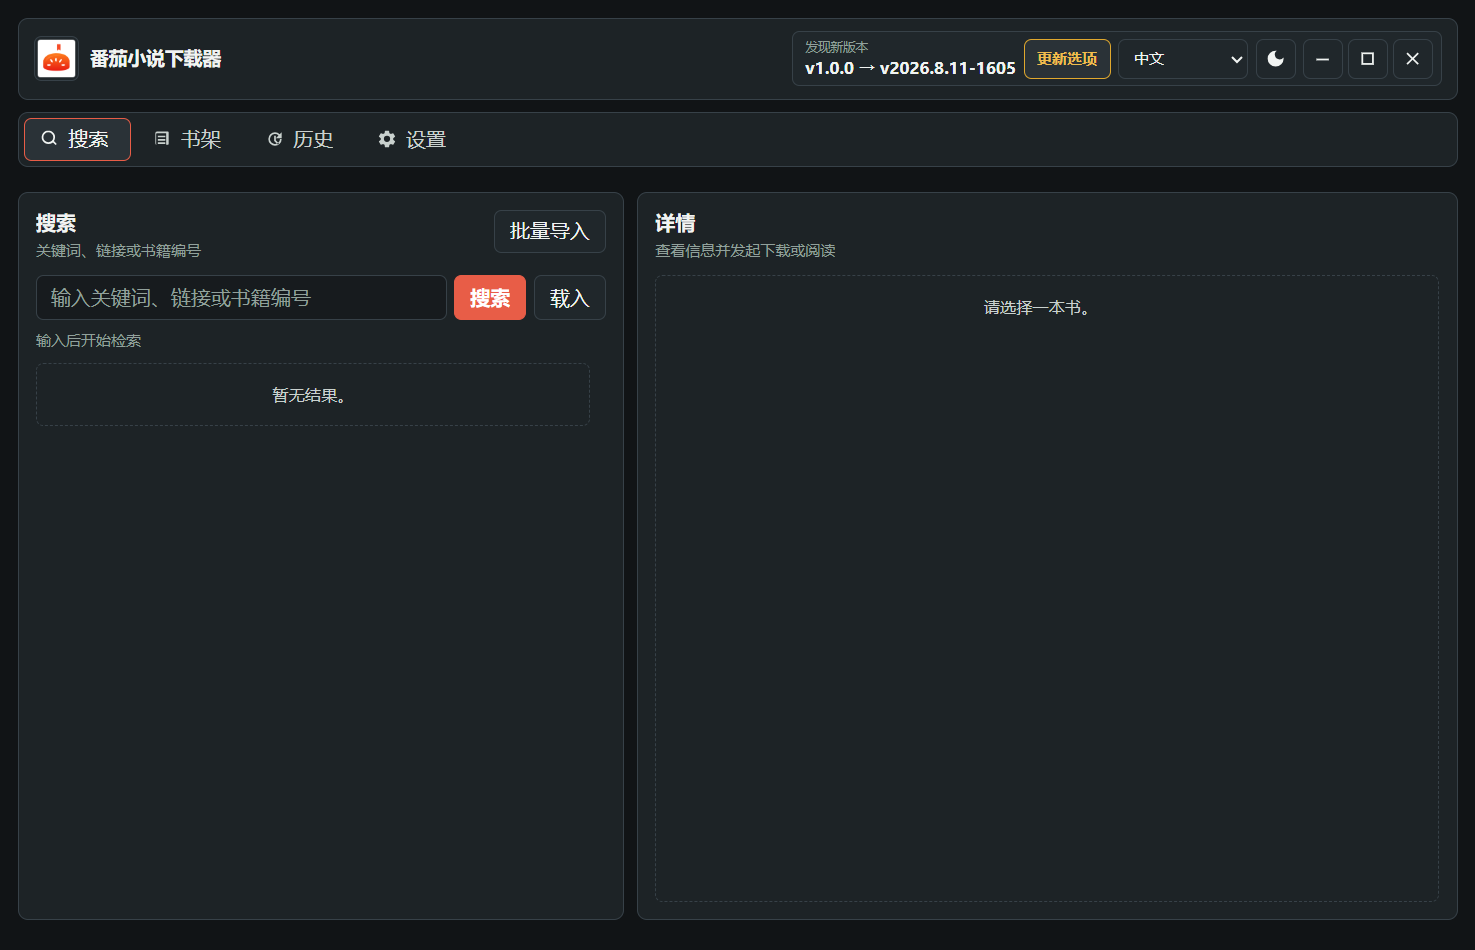
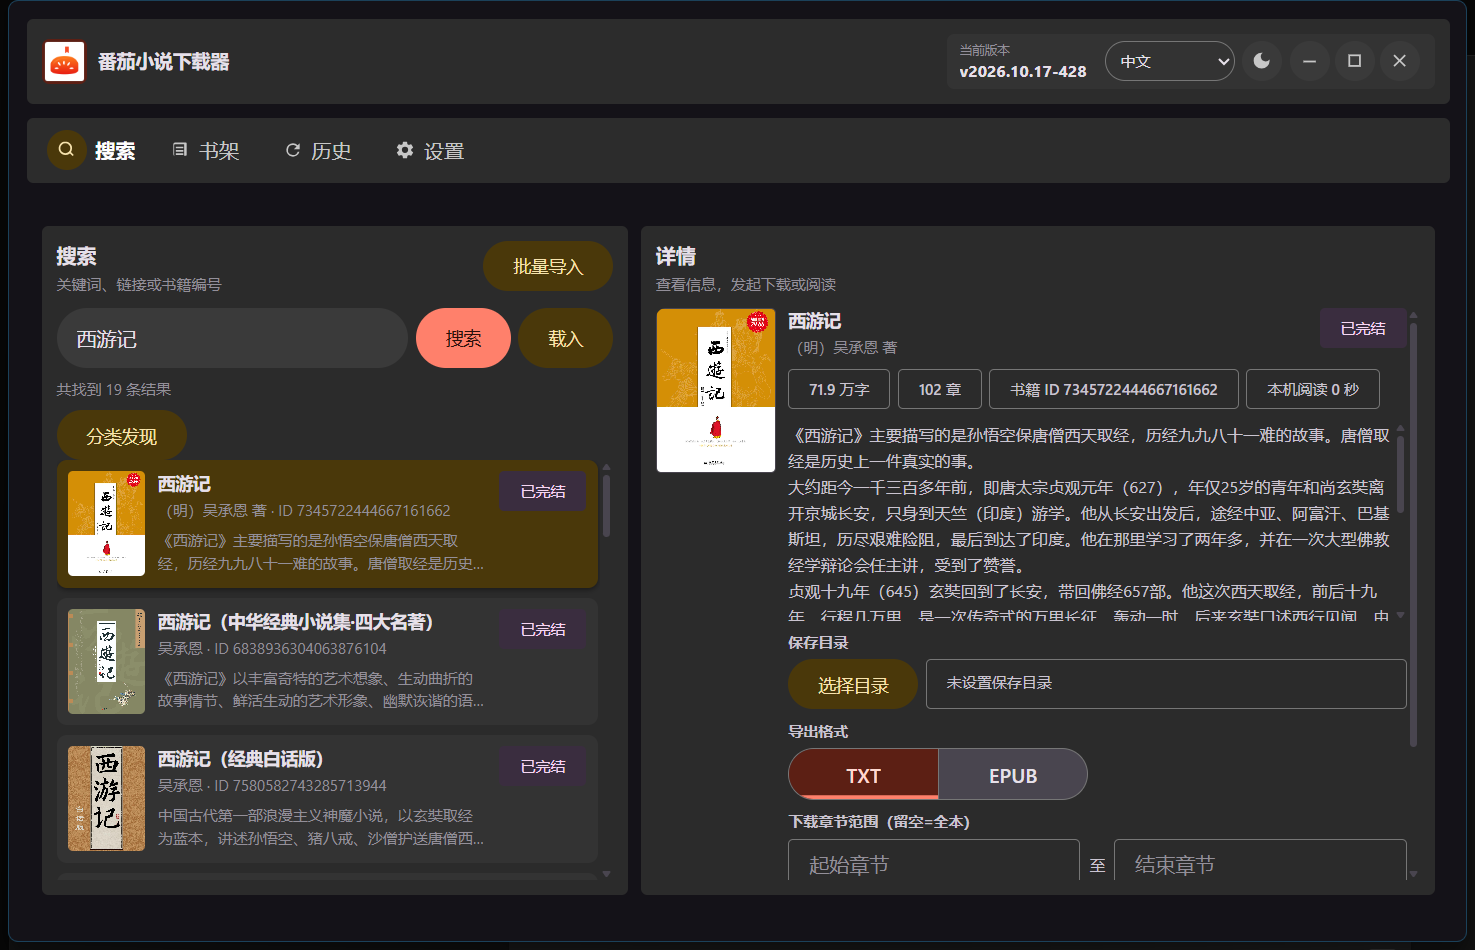
docs: 用当前版本重拍客户端截图并修正文档表述
- 4 张截图改由 2026.10.17-428 的 Windows x64 客户端在隔离应用数据目录下重拍，
  分辨率保持 1475x950；替换仍显示旧版本号、且缺少目录/翻页/段评/行距/配色按钮与
  滚动续章选项的旧图
- 截图说明改为与该图实际可见内容一致
- 诊断日志表述改为可核实的“URL、主机名和长标识符只写哈希或占位”

Changed region(s): [[0.0, 0.0305, 0.998, 0.9463], [0.6549, 0.3053, 0.7485, 0.3358], [0.7485, 0.8853, 0.8108, 0.9158]]

diff --git a/README.md b/README.md
@@ -18,8 +18,8 @@ Cookie 或本地路径信息。
 
 ![搜索与书籍详情](docs/images/app-overview.png)
 
-搜索页支持关键词、番茄小说链接和书籍 ID；选中书籍后，右侧详情页显示封面、作者、分类、
-字数、连载状态、最近更新时间、简介和章节目录，并可发起在线阅读、离线缓存或下载。
+在搜索页用关键词、番茄小说链接或书籍 ID 查找，左侧列出结果；选中书籍后，右侧详情页显示
+封面、作者、字数、章节数、书籍 ID 和简介，并可设置保存目录、导出格式与下载章节范围。
 
 ![阅读器正文与章节信息](docs/images/reader-chapter.png)
 
@@ -217,8 +217,8 @@ Cookie 和书籍标识进行脱敏。
   的离线书库，其余数据保留
 - 应用的网络访问只用于番茄接口与版本更新；本地导入的文件内容、标题、阅读进度和时长不会
   发送给这些接口
-- 诊断日志默认关闭，需要时可在“设置 → 系统”开启、打开日志目录或导出；日志会对接口参数、
-  签名、Cookie 和书籍标识进行脱敏
+- 诊断日志默认关闭，需要时可在“设置 → 系统”开启、打开日志目录或导出；日志字段统一经过脱敏，
+  URL、主机名和长标识符只写哈希或占位
 
 ## 常见问题
 
